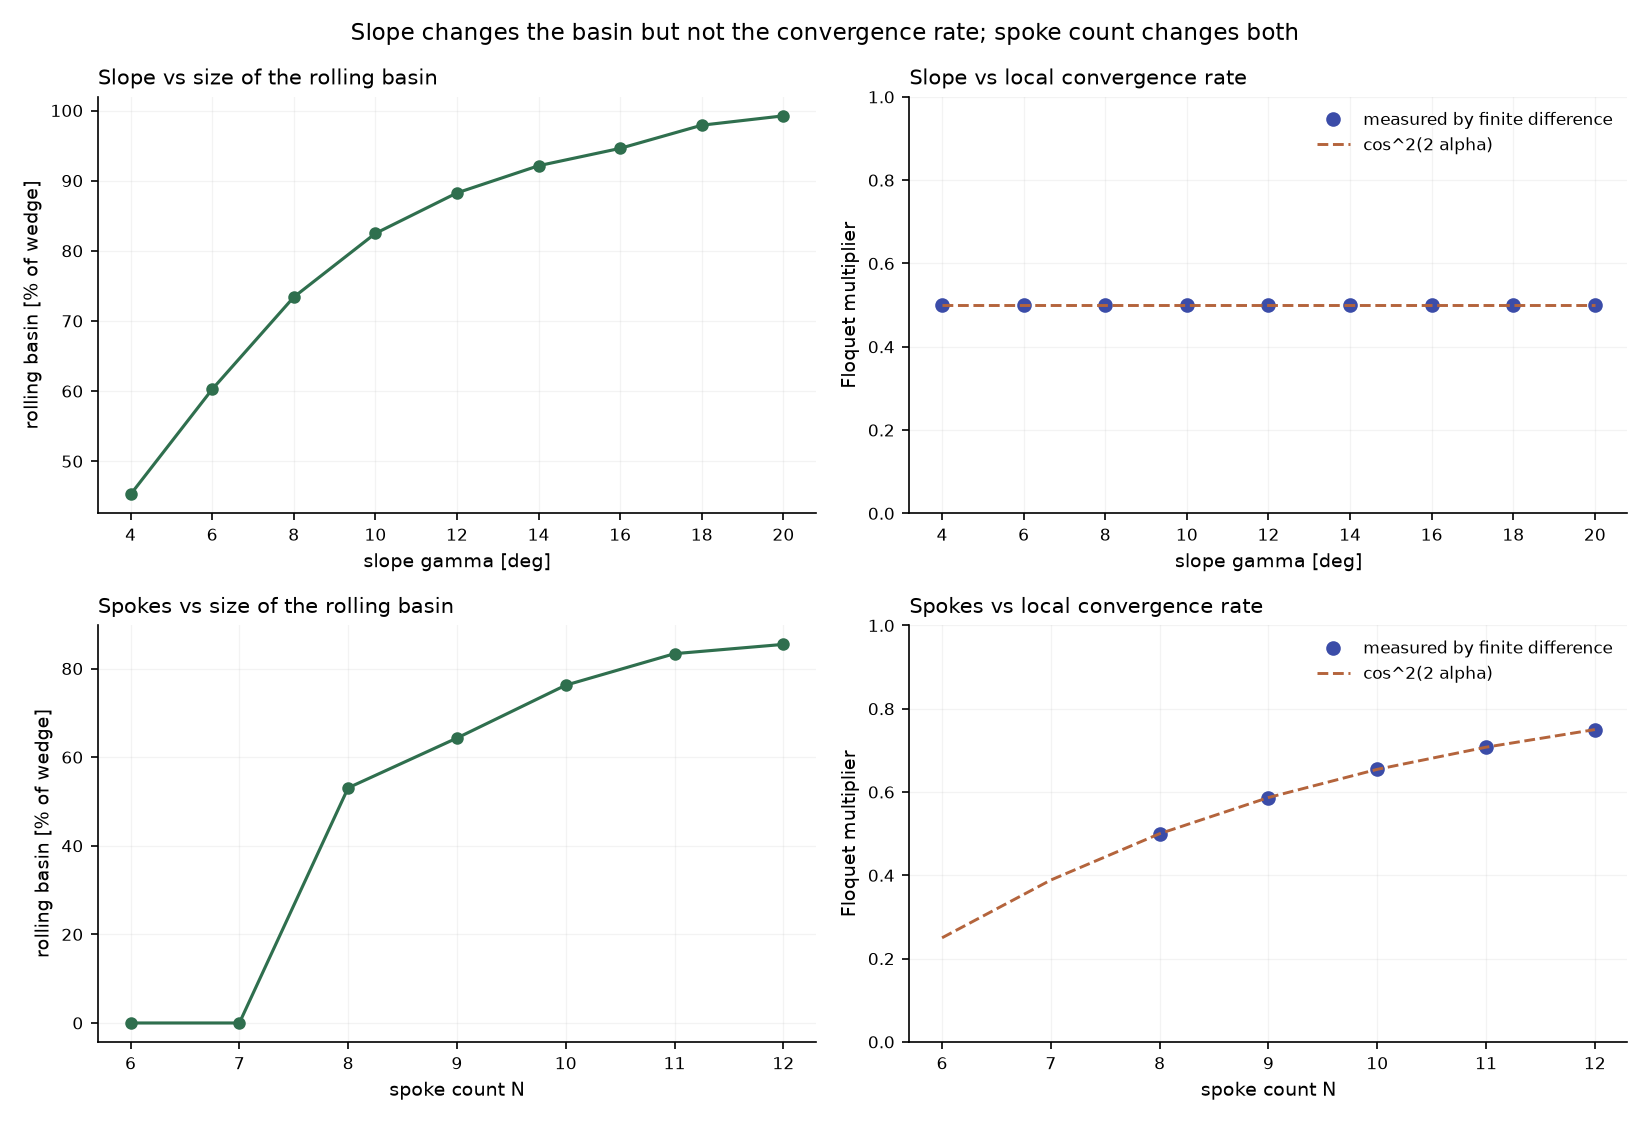
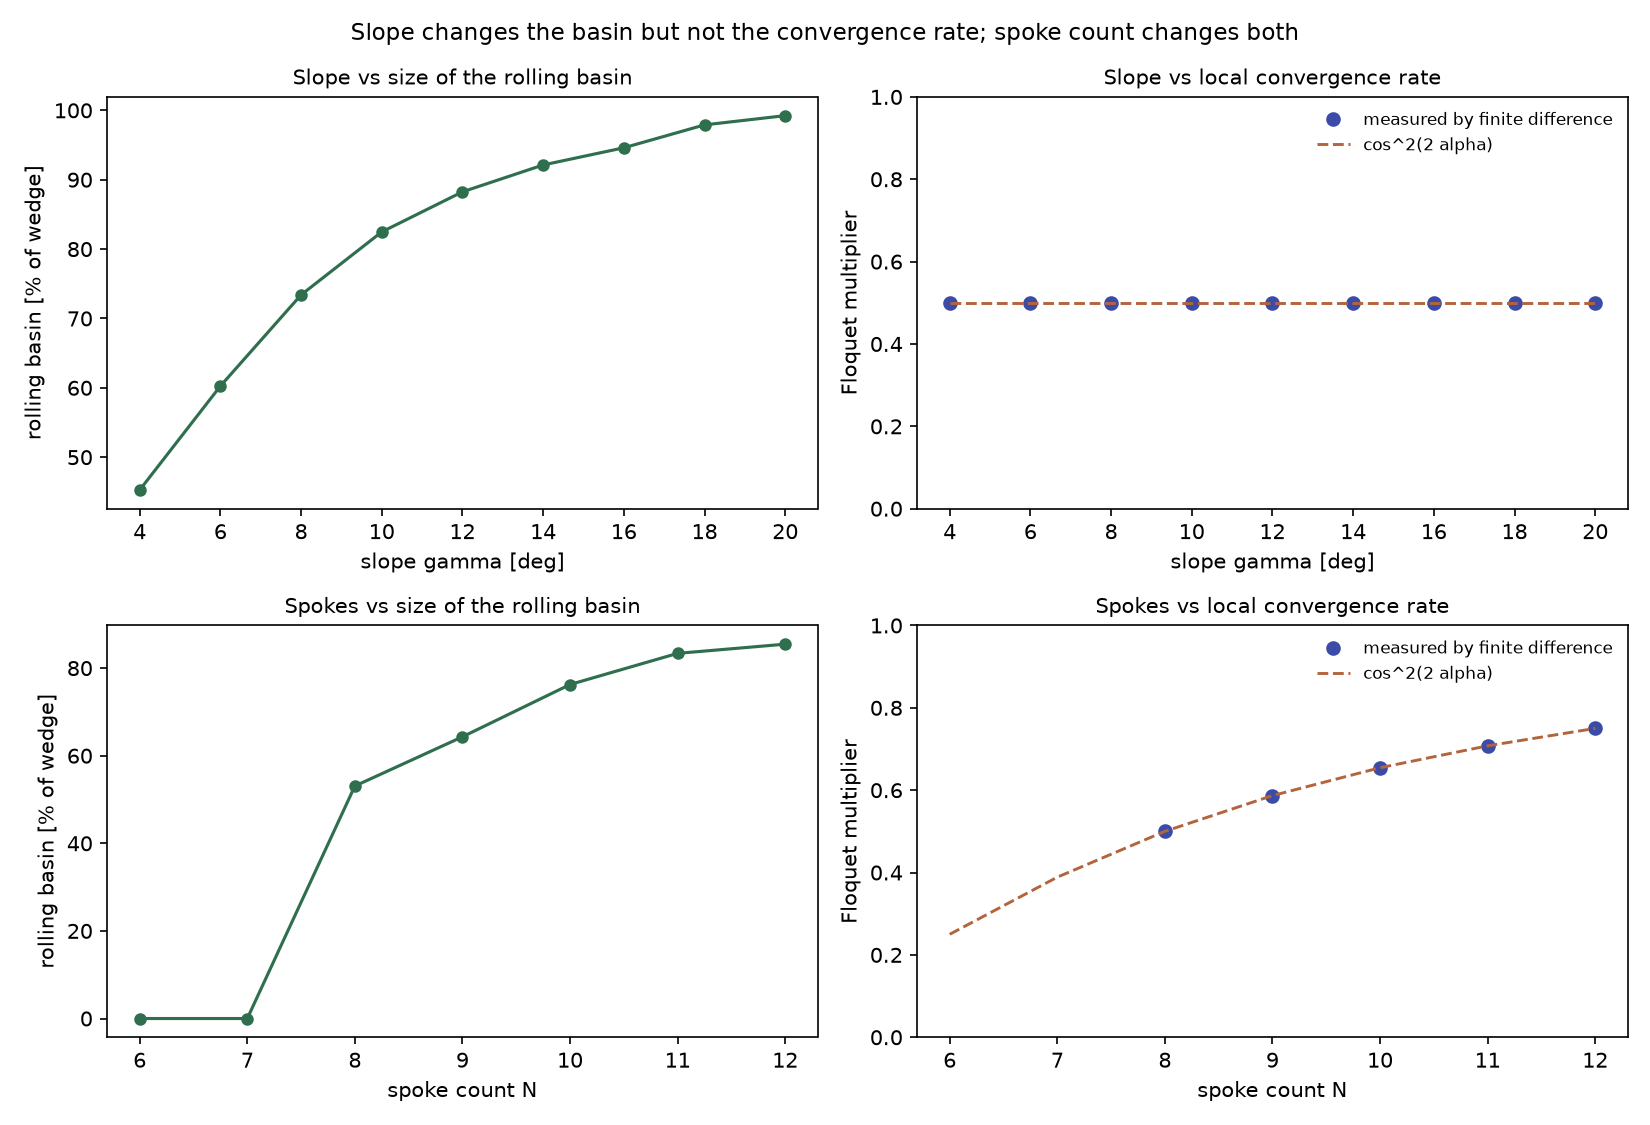
report and instructions added

diff --git a/assignments/assignment_1/stability_analysis.py b/assignments/assignment_1/stability_analysis.py
@@ -13,86 +13,53 @@ from rimless_wheel_model import RimlessWheel, simulate, step_return_map
 FIGURES = Path(__file__).parent / "figures"
 ROLLING_COLOUR, STOPPED_COLOUR, LINE_COLOUR = "#2F6F4E", "#B4643C", "#3B4CA8"
 
+def check_energy(wheel):
 
-def tidy(axes, title, xlabel, ylabel):
-    axes.set_title(title, fontsize=10, loc="left")
-    axes.set_xlabel(xlabel, fontsize=9)
-    axes.set_ylabel(ylabel, fontsize=9)
-    axes.tick_params(labelsize=8)
-    axes.grid(alpha=0.15, linewidth=0.6)
-    for edge in ("top", "right"):
-        axes.spines[edge].set_visible(False)
-
-
-# ------------------------------------------------------------- sanity checking
-
-
-def check_model(wheel):
-    """Three checks, each isolating one part of the model.
-
-    Each has a prediction stated before it runs, so a wrong model fails loudly
-    rather than producing a plausible-looking number.
-    """
-    print("Sanity checks")
-    figure, axes_row = plt.subplots(1, 3, figsize=(13, 3.8))
-    flat_wheel = RimlessWheel(spoke_count=wheel.spoke_count, slope_angle=0.0)
-
-    # 1. Only the smooth flow. Energy is conserved between impacts, so any drift
-    #    is the integrator, not the physics. Expect it at the solver tolerance.
-    solution = solve_ivp(flat_wheel.compute_derivative, (0, 1.0), [0.05, 0.0],
-                         rtol=1e-11, atol=1e-11, dense_output=True)
-    times = np.linspace(0, 1.0, 400)
-    energy = np.array([flat_wheel.compute_energy(s) for s in solution.sol(times).T])
-    drift = np.ptp(energy)
-    print(f"  energy drift between impacts : {drift:.2e}   (expect ~0)")
-    axes_row[0].plot(times, energy - energy[0], color=LINE_COLOUR, linewidth=1.4)
-    tidy(axes_row[0], f"1. Smooth flow only\nenergy drift {drift:.1e}, expected ~0",
-         "time [s]", "E(t) - E(0)")
-
-    # 2. Only the collision law. Every impact must scale the rate by cos(2 alpha)
-    #    exactly. A constant but wrong ratio means the alpha convention is off; a
-    #    drifting ratio means the event localisation is sloppy.
     guards = wheel.build_guards()
-    state = np.array([wheel.launch_angle, 2.5])
-    ratios = []
-    for _ in range(12):
-        segment = solve_ivp(wheel.compute_derivative, (0, 30), state,
-                            events=guards, rtol=1e-11, atol=1e-11)
-        struck = segment.y[:, -1]
-        after = wheel.apply_impact(struck, segment.t_events[0].size > 0)
-        ratios.append(abs(after[1] / struck[1]))
+    state = np.array([wheel.launch_angle, 3.0])
+    clock = 0.0
+    times, energies, drift, ratio_error = [], [], 0.0, 0.0
+
+    for _ in range(6):
+        swing = solve_ivp(wheel.compute_derivative, (clock, clock + 30.0), state,
+                          events=guards, rtol=1e-11, atol=1e-11, dense_output=True)
+        sample_times = np.linspace(swing.t[0], swing.t[-1], 200)
+        sample_energy = [wheel.compute_energy(s) for s in swing.sol(sample_times).T]
+        times.append(sample_times)
+        energies.append(sample_energy)
+        drift = max(drift, np.ptp(sample_energy))
+
+        clock = swing.t[-1]
+        before = swing.y[:, -1]
+        after = wheel.apply_impact(before, swing.t_events[0].size > 0)
+        ratio_error = max(ratio_error,
+                          abs((after[1] / before[1]) ** 2 - wheel.impact_speed_ratio ** 2))
         state = after
-    ratio_error = max(abs(r - wheel.impact_speed_ratio) for r in ratios)
-    print(f"  impact rate ratio            : {ratios[0]:.12f}   "
-          f"(expect {wheel.impact_speed_ratio:.12f})")
-    axes_row[1].plot(range(1, 13), ratios, "o-", color=LINE_COLOUR, markersize=4)
-    axes_row[1].axhline(wheel.impact_speed_ratio, color=STOPPED_COLOUR, linestyle="--")
-    tidy(axes_row[1], f"2. Collision law only\nmax error {ratio_error:.1e} from cos(2a)",
-         "impact number", "|rate after| / |rate before|")
 
-    # 3. The whole system, against a prediction needing no computation: with no
-    #    slope, gravity adds nothing and impacts subtract, so it must stop.
-    outcomes = {simulate(flat_wheel, [flat_wheel.launch_angle, rate])[0]
-                for rate in (0.5, 2.0, 6.0)}
-    print(f"  flat ground outcomes         : {outcomes}   (expect only stopped)")
-    _, decay = simulate(flat_wheel, [flat_wheel.launch_angle, 6.0], rolling_steps=99)
-    axes_row[2].semilogy(range(1, len(decay) + 1), decay, "o-",
-                         color=STOPPED_COLOUR, markersize=4)
-    tidy(axes_row[2], f"3. Whole system on flat ground\noutcomes {outcomes}, expected stopped",
-         "downhill step", "post-impact rate [rad/s]")
+    print("Sanity check: energy")
+    print(f"  drift while swinging  : {drift:.2e}   (expect 0)")
+    print(f"  kept at impact        : {wheel.impact_speed_ratio ** 2:.12f}   "
+          f"(worst error {ratio_error:.1e})")
 
-    figure.suptitle(f"Sanity checks   {wheel.describe()}", fontsize=11)
+    figure, axes = plt.subplots(figsize=(8, 4.5))
+    for sample_times, sample_energy in zip(times, energies):
+        axes.plot(sample_times, sample_energy, color=LINE_COLOUR, linewidth=2.2)
+    for sample_times in times[:-1]:
+        axes.axvline(sample_times[-1], color=STOPPED_COLOUR, linestyle=":", linewidth=1.1)
+    axes.plot([], [], color=LINE_COLOUR, linewidth=2.2, label="swinging: energy conserved")
+    axes.plot([], [], color=STOPPED_COLOUR, linestyle=":", label="impact: energy lost")
+    axes.legend(fontsize=8, frameon=False)
+    axes.set_xlabel("time [s]")
+    axes.set_ylabel("energy per unit mass per unit length")
+    axes.set_title(f"Sanity check: energy   {wheel.describe()}\n"
+                   f"flat to {drift:.0e} between impacts, each impact keeps "
+                   f"cos^2(2a) = {wheel.impact_speed_ratio ** 2:.3f}", fontsize=10)
     figure.tight_layout()
-    figure.savefig(FIGURES / "sanity_checks.png", dpi=150)
+    figure.savefig(FIGURES / "sanity_check_energy.png", dpi=150)
     plt.close(figure)
 
 
 def compare_speed(wheel, sample_count=40, seed=0):
-    """Show the early exit is faster AND gives the same classification.
-
-    The agreement count is the important half: it says the shortcut is free
-    rather than an approximation traded for speed.
-    """
     generator = np.random.default_rng(seed)
     points = [[generator.uniform(wheel.launch_angle, wheel.strike_angle),
                generator.uniform(-6.0, 6.0)] for _ in range(sample_count)]
@@ -112,15 +79,7 @@ def compare_speed(wheel, sample_count=40, seed=0):
           f"{agree}/{sample_count} identical classifications")
 
 
-# --------------------------------------------------------- regions of attraction
-
-
 def map_regions_of_attraction(wheel, angle_samples=51, rate_samples=71, rate_limit=6.0):
-    """Grid the state space and simulate from every point.
-
-    The stance angle can only lie between the two guards; outside that wedge a
-    different spoke would already be touching the ground.
-    """
     angles = np.linspace(wheel.launch_angle, wheel.strike_angle, angle_samples)
     rates = np.linspace(-rate_limit, rate_limit, rate_samples)
     classification = np.zeros((rate_samples, angle_samples))
@@ -134,7 +93,6 @@ def map_regions_of_attraction(wheel, angle_samples=51, rate_samples=71, rate_lim
 
 
 def plot_regions_of_attraction(wheel, angles, rates, classification, fixed_point):
-    """Both attractors on one state-space map, each with its basin."""
     rolling_fraction = classification.mean()
     figure, axes = plt.subplots(figsize=(8.5, 6))
     axes.imshow(classification, origin="lower", aspect="auto",
@@ -170,10 +128,6 @@ def plot_regions_of_attraction(wheel, angles, rates, classification, fixed_point
     figure.savefig(FIGURES / "regions_of_attraction.png", dpi=150)
     plt.close(figure)
     return rolling_fraction
-
-
-# ---------------------------------------------------- return map and multiplier
-
 
 def find_fixed_point(wheel):
     """Solve P(v) = v on the simulated map. None when no rolling cycle exists.
@@ -263,12 +217,7 @@ def plot_return_map(wheel, fixed_point, multiplier):
     figure.savefig(FIGURES / "return_map.png", dpi=150)
     plt.close(figure)
 
-
-# ------------------------------------------------------------------- the sweeps
-
-
 def sweep(wheels, angle_samples=35, rate_samples=45):
-    """Measure the rolling basin and the multiplier across a list of wheels."""
     basins, multipliers, predictions = [], [], []
     for wheel in wheels:
         _, _, classification = map_regions_of_attraction(wheel, angle_samples, rate_samples)
@@ -293,8 +242,9 @@ def plot_sweeps(slope_degrees, slope_results, spoke_counts, spoke_results):
 
         axes = axes_grid[row, 0]
         axes.plot(x_values, 100 * basins, "o-", color=ROLLING_COLOUR, markersize=5)
-        tidy(axes, f"{name} vs size of the rolling basin", x_label,
-             "rolling basin [% of wedge]")
+        axes.set_title(f"{name} vs size of the rolling basin", fontsize=10)
+        axes.set_xlabel(x_label)
+        axes.set_ylabel("rolling basin [% of wedge]")
 
         axes = axes_grid[row, 1]
         axes.plot(x_values, multipliers, "o", color=LINE_COLOUR, markersize=6,
@@ -303,7 +253,9 @@ def plot_sweeps(slope_degrees, slope_results, spoke_counts, spoke_results):
                   label="cos^2(2 alpha)")
         axes.set_ylim(0, 1)
         axes.legend(fontsize=8, frameon=False)
-        tidy(axes, f"{name} vs local convergence rate", x_label, "Floquet multiplier")
+        axes.set_title(f"{name} vs local convergence rate", fontsize=10)
+        axes.set_xlabel(x_label)
+        axes.set_ylabel("Floquet multiplier")
 
     figure.suptitle("Slope changes the basin but not the convergence rate; "
                     "spoke count changes both", fontsize=11)
@@ -311,16 +263,12 @@ def plot_sweeps(slope_degrees, slope_results, spoke_counts, spoke_results):
     figure.savefig(FIGURES / "sweeps.png", dpi=150)
     plt.close(figure)
 
-
-# ------------------------------------------------------------------------ main
-
-
 def main():
     FIGURES.mkdir(exist_ok=True)
     wheel = RimlessWheel(spoke_count=8, slope_angle=np.deg2rad(5.0))
     print(wheel.describe(), "\n")
 
-    check_model(wheel)
+    check_energy(wheel)
 
     print("\nCost of the brute force")
     compare_speed(wheel)

diff --git a/assignments/assignment_1/report.md b/assignments/assignment_1/report.md
@@ -1,0 +1,31 @@
+## Running Instructions
+'''
+cd MAE5110CodeAssignments
+uv add numpy scipy matplotlib
+uv run python assignments/assignment_1/stability_analysis.py
+'''
+
+
+## Model Sanity Checks
+
+In this modelling of a rimless wheel system, I included a sanity check to check the total energy in the system over time to see how
+the collissions affected the system. From what we know of the rimless wheel system, we know that it has plastic collsiions for every spoke that hits the slope. This means that we should expect the system to lose energy on every collision. From the plot, we see that the total energy in the system decreases asymptotically every collision.
+![Energy Check](figures/sanity_check_energy.png)  
+
+## Return Map Plot
+Return Map Plot with fixed point and identity line shown.
+![Return Map](figures/return_map.png)  
+
+## Sweeps
+
+![Sweeps](figures/sweeps.png)  
+
+## Regions of Attraction
+
+![Regions of Attraction](figures/regions_of_attraction.png)
+
+## Spokes and Slope affecting RoA and local convergence.
+
+From the sweeps plot, we can see how the slope angle affects the RoA because an increase in the slope angle increases the percentange of rimless wheels that end up rolling continuously in a limit cycle. From 4 deg having 45% to 20 deg having 99%, there is a significant positive correlation between the slope angle and the RoA percentage. For the number of spokes, we see that there is a similar positive correlation except that rimless wheels with 7 or below number of spokes have a 0% for the RoA. The issue for these two spoke numbers is that the rimless wheel loses too much energy and speed compared to the speed it needs to move to the next spoke. 
+
+From the sweeps plot, we see that there is no correlation between the slope angle and the local convergence rate. This is because the slope affects the energy regained from potential energy due to gravity which is not related to how the wheel recovers from disturbances. However, there is a positive correlation between the number of spokes and the local convergence rate, which is because more spokes reduces the energy lost making it easier and more forgiving to recover from disturbances.
